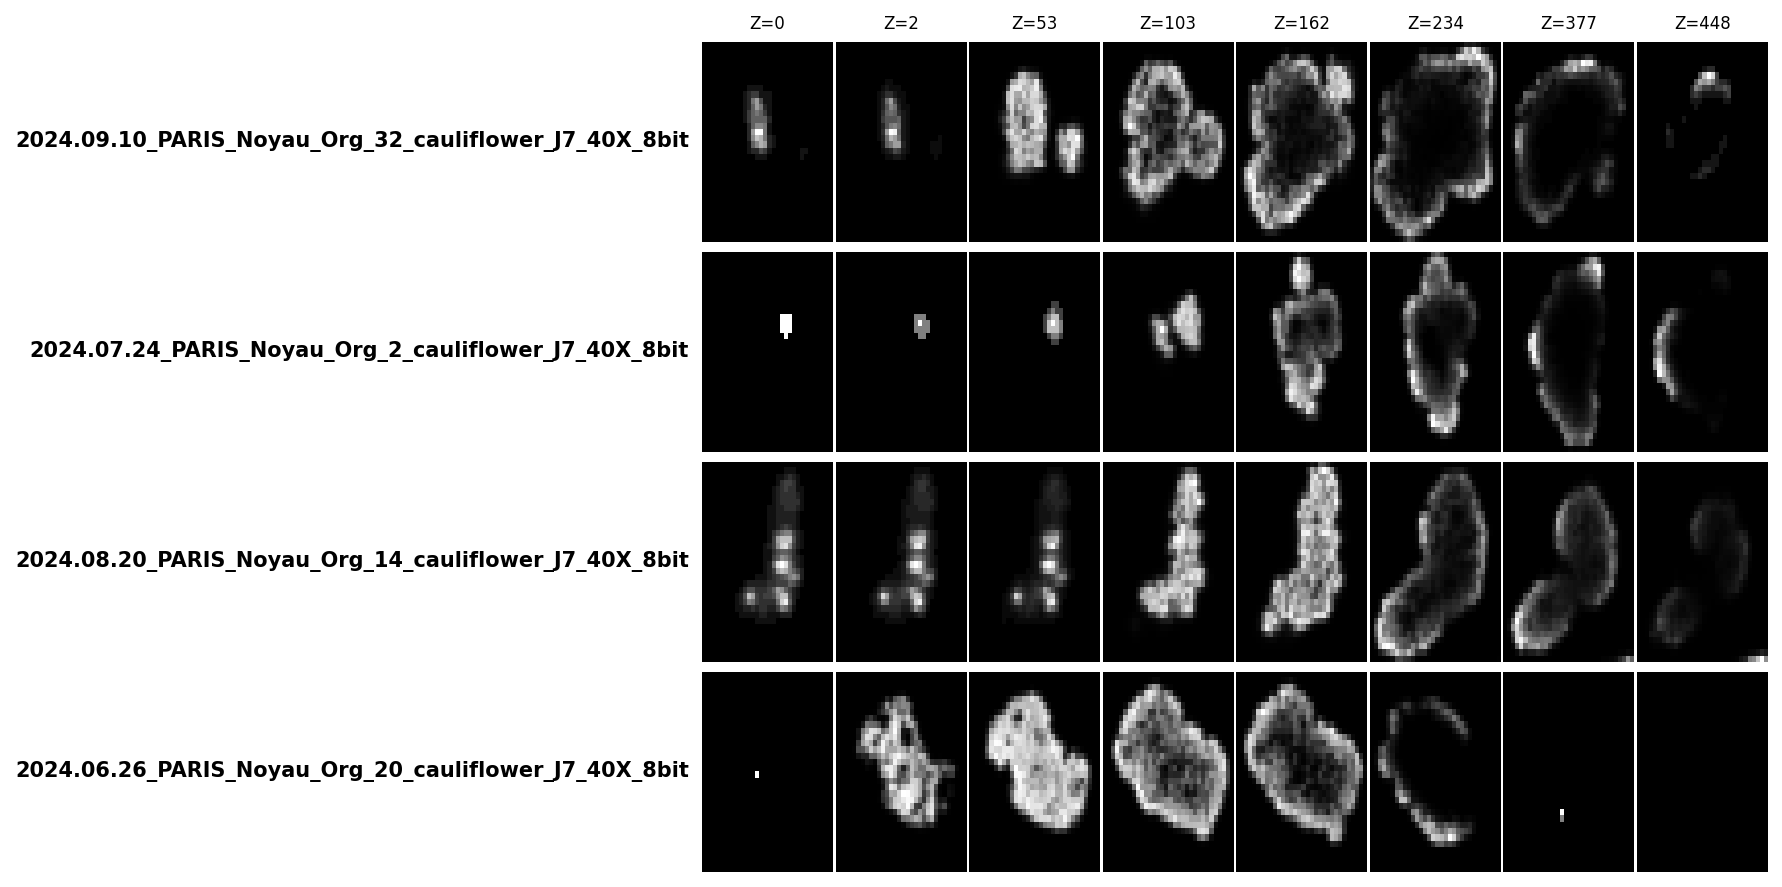
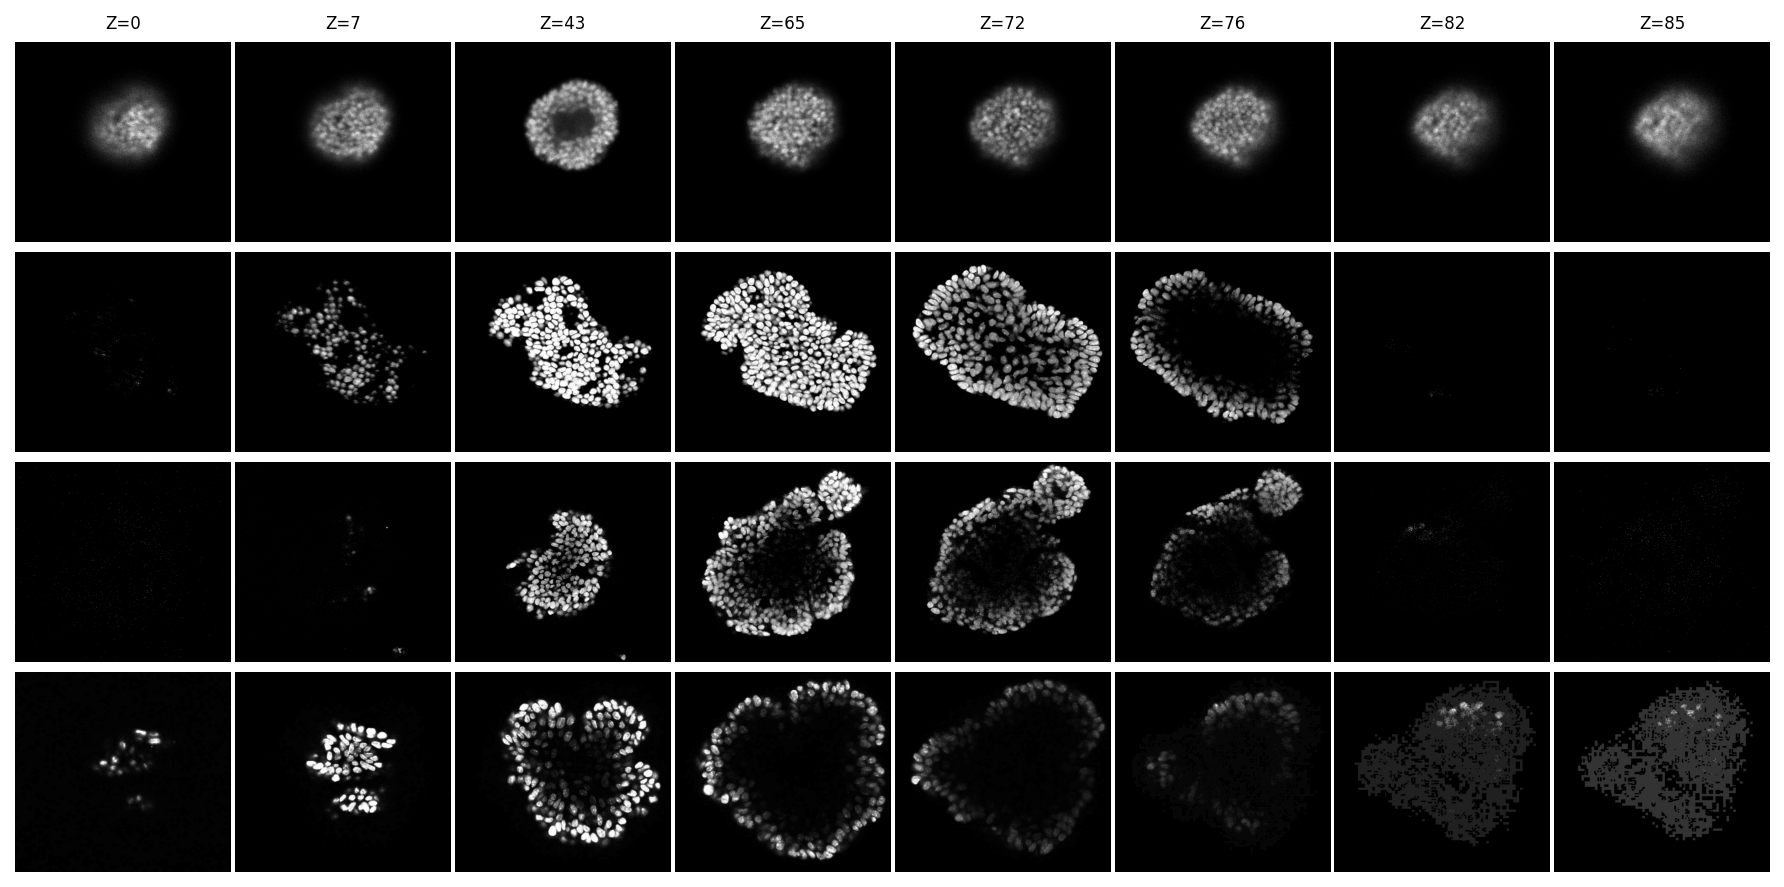
Asset

diff --git a/dataset/sliceSelector.py b/dataset/sliceSelector.py
@@ -236,12 +236,12 @@ def visualize_selected_slices(samples_data, n_slices=32, save_path=None):
                 ax.set_title(f'Z={z_idx}', fontsize=8)
         
         # Add sample name on the left
-        axes[sample_idx, 0].text(-0.1, 0.5, sample_name, 
-                                  transform=axes[sample_idx, 0].transAxes,
-                                  fontsize=10, fontweight='bold',
-                                  verticalalignment='center',
-                                  horizontalalignment='right',
-                                  rotation=0)
+        # axes[sample_idx, 0].text(-0.1, 0.5, sample_name, 
+        #                           transform=axes[sample_idx, 0].transAxes,
+        #                           fontsize=10, fontweight='bold',
+        #                           verticalalignment='center',
+        #                           horizontalalignment='right',
+        #                           rotation=0)
     
     plt.tight_layout()
     plt.subplots_adjust(wspace=0.02, hspace=0.05)
@@ -272,8 +272,17 @@ def test_on_samples(input_dir, n_samples=5, n_slices=32, method='feature_varianc
     if len(tif_files) == 0:
         raise ValueError(f"No TIFF files found in {input_dir}")
     
+    
     # Select first n_samples
-    tif_files = tif_files[:n_samples]
+    import random
+    import numpy as np
+
+    # Seleziona n_samples casuali (senza ripetizioni)
+    tif_files = random.sample(tif_files, n_samples)
+
+    # Oppure con numpy (più efficiente per liste grandi)
+    indices = np.random.choice(len(tif_files), size=n_samples, replace=False)
+    tif_files = [tif_files[i] for i in indices]
     
     print(f"Processing {len(tif_files)} samples")
     print(f"Method: {method}")
@@ -301,7 +310,7 @@ def test_on_samples(input_dir, n_samples=5, n_slices=32, method='feature_varianc
             selected_indices = list(range(D))
             print(f"  Warning: Volume has only {D} slices, using all")
         else:
-            selected_indices = selector.select_by_method(volume, n_slices)
+            selected_indices = selector.select_axis(volume, axis=0, n_slices=n_slices)
             print(f"  Selected {len(selected_indices)} slices: {selected_indices[:5]}...{selected_indices[-5:]}")
         
         samples_data.append({
